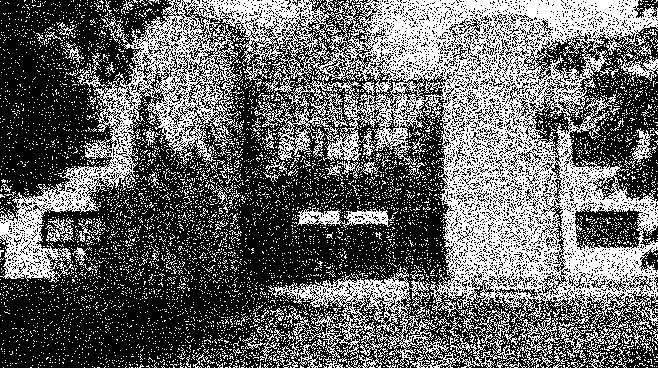
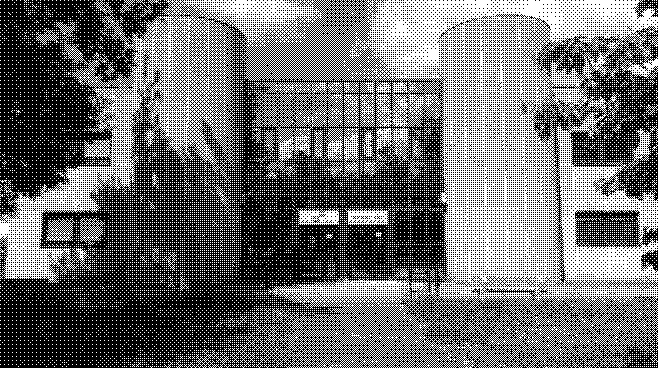
tramage par matrice de bayer (question 15)

diff --git a/src/main.rs b/src/main.rs
@@ -1,4 +1,7 @@
 mod utils;
+use std::str;
+use std::str::FromStr;
+
 use argh::FromArgs;
 //use image::io::Reader as ImageReader;
 //use image::DynamicImage;
@@ -52,12 +55,34 @@ struct OptsPalette {
     n_couleurs: usize
 }
 
-#[derive(Debug, Clone, PartialEq, FromArgs)]
-#[argh(subcommand, name="dithering")]
-/// Rendu de l’image par dithering.
-struct OptsDithering {
-    // Ajouter des options pour le mode Dithering ici...
+#[derive(Debug, Clone, PartialEq)]
+pub enum Methode {
+    Aleatoire,
+    Ordonne,
 }
+
+// Implémentation de FromStr pour Enum
+impl FromStr for Methode {
+    type Err = String;
+
+    fn from_str(s: &str) -> Result<Self, Self::Err> {
+        match s.to_lowercase().as_str() {
+            "aleatoire" => Ok(Methode::Aleatoire),
+            "ordonne" => Ok(Methode::Ordonne),
+            _ => Err(format!("Méthode de dithering invalide: {}", s)),
+        }
+    }
+}
+
+#[derive(Debug, Clone, PartialEq, FromArgs)]
+#[argh(subcommand, name = "dithering")]
+/// Rendu de l'image par dithering.
+pub struct OptsDithering {
+    /// la méthode de tramage à utiliser
+    #[argh(option)]
+    tramage: Methode,
+}
+
 
 fn main() {
     let args: DitherArgs = argh::from_env();
@@ -114,10 +139,22 @@ fn main() {
             utils::monochrome_par_palette(&mut image_rgb8, couleurs_palette); // Question 9
         },
         Mode::Dithering(_opts_dithering) => {
-            // Si le mode est Dithering, gérer le dithering
+           
             println!("Mode dithering");
+            match _opts_dithering.tramage {
+                Methode::Aleatoire => {
+                    println!("Méthode de dithering : Aleatoire");
+                    utils::tramage_aléatoire(&mut image_rgb8); // Question 12
+                },
+                Methode::Ordonne => {
+                    println!("Méthode de dithering : Ordonne");
+                    let matrice = utils::generer_matrice_bayer(2);
+                    utils::afficher_matrice(&matrice);
+                    utils::tramage_ordonne(&mut image_rgb8, &matrice); // Question 13
+                }
+            }
             
-            utils::tramage_aléatoire(&mut image_rgb8); // Question 12
+            
         }
     }
 

diff --git a/src/utils.rs b/src/utils.rs
@@ -140,3 +140,52 @@ pub fn tramage_aléatoire(image_rgb8: &mut RgbImage) {
         }
     }
 }
+
+/// Générer une matrice de Bayer de taille 2^order
+pub fn generer_matrice_bayer(order: u32) -> Vec<Vec<u32>> {
+    if order == 0 {
+        return vec![vec![0]];
+    }
+
+    let matrice_precedente = generer_matrice_bayer(order - 1);
+    let taille = matrice_precedente.len();
+    let nouvelle_taille = taille * 2;
+    let mut matrice = vec![vec![0; nouvelle_taille]; nouvelle_taille];
+
+    for i in 0..taille {
+        for j in 0..taille {
+            let valeur_base = matrice_precedente[i][j] * 4;
+            matrice[i][j] = valeur_base;
+            matrice[i][j + taille] = valeur_base + 2;
+            matrice[i + taille][j] = valeur_base + 3;
+            matrice[i + taille][j + taille] = valeur_base + 1;
+        }
+    }
+
+    matrice
+}
+
+/// Afficher une matrice d'entiers
+pub fn afficher_matrice(matrice: &Vec<Vec<u32>>) {
+    for ligne in matrice {
+        for valeur in ligne {
+            print!("{} ", valeur);
+        }
+        println!();
+    }
+}
+
+/// Appliquer un tramage ordonné sur une image RGB8 en utilisant une matrice de Bayer
+pub fn tramage_ordonne(image_rgb8: &mut RgbImage, matrice_bayer: &Vec<Vec<u32>>) {
+    let taille = matrice_bayer.len();
+    for (x, y, pixel) in image_rgb8.enumerate_pixels_mut() {
+        let luminosite = luminosite_pixel(pixel);
+        let i = x as usize % taille;
+        let j = y as usize % taille;
+        if luminosite / 255.0 > matrice_bayer[i][j] as f32 / (taille * taille) as f32 {
+            *pixel = Rgb([255, 255, 255]);
+        } else {
+            *pixel = Rgb([0, 0, 0]);
+        }
+    }
+}
